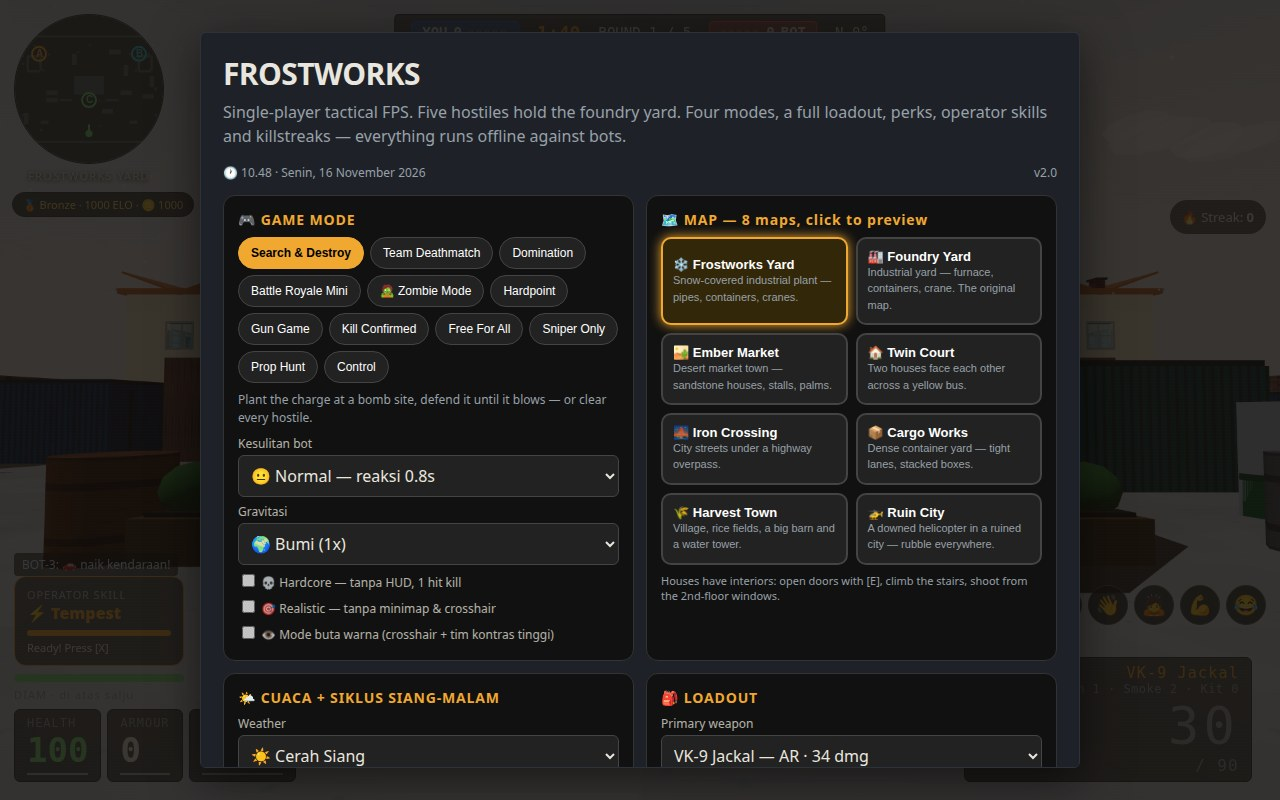
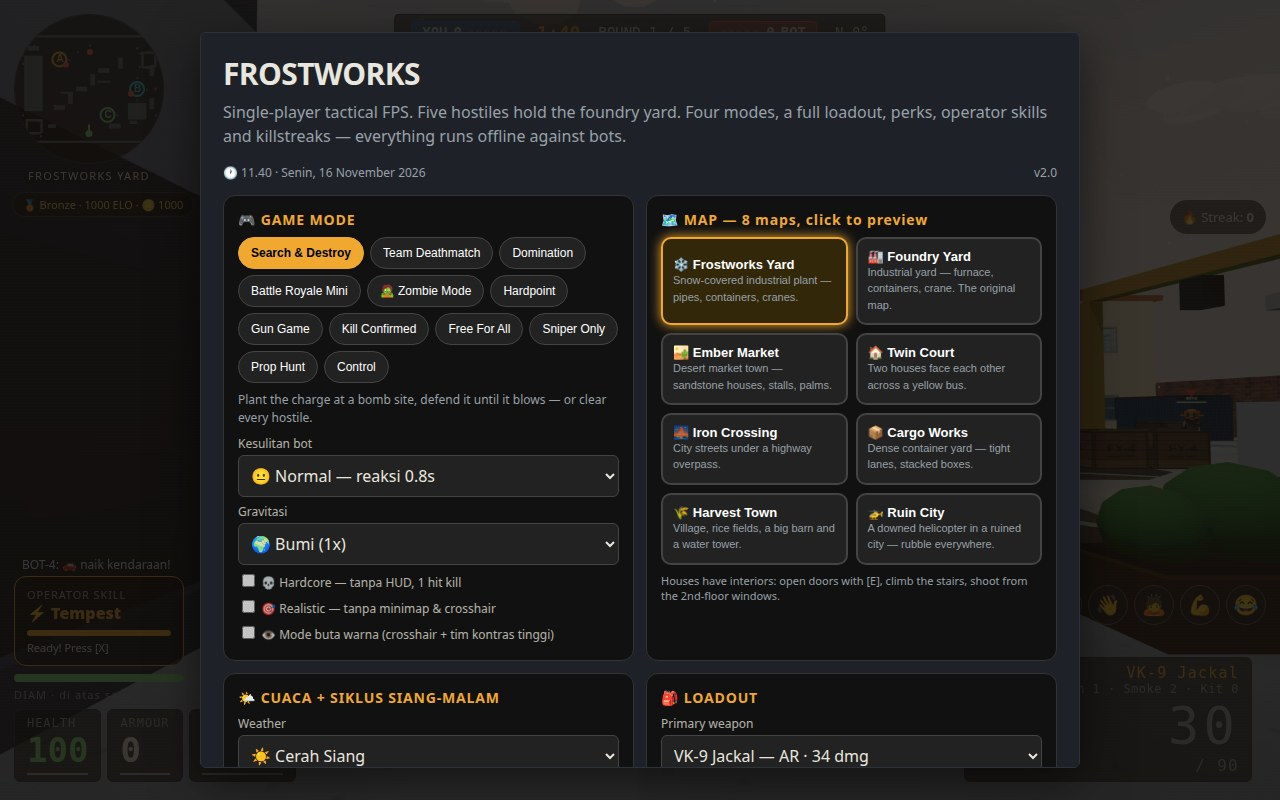
Frost layout redesign: Frostworks Yard rebuilt so it no longer mirrors Foundry — west vertical plant hall, east boiler annex, 90-deg crane, diagonal container spine, sites A (-16,-16) / B (26,0) / C (10,14), asymmetric waypoint ring; new §51 layout checks, self-test 422/422

diff --git a/game/src/maps.js b/game/src/maps.js
@@ -30,87 +30,109 @@ export const MAP_DEFS = {
     id: 'frost', name: 'Frostworks Yard', emoji: '❄',
     desc: 'Snow-covered industrial plant — pipes, containers, cranes.',
     sites: {
-      A: { name: 'Boiler House', x: -27, z: -19, color: 0xf0a830 },
-      B: { name: 'Crane Dock', x: 27, z: -19, color: 0x37c8d8 },
-      C: { name: 'Frost Gate', x: 0, z: 6, color: 0x7ddc7d },
+      A: { name: 'Boiler House', x: -16, z: -16, color: 0xf0a830 },
+      B: { name: 'Crane Dock', x: 26, z: 0, color: 0x37c8d8 },
+      C: { name: 'Frost Gate', x: 10, z: 14, color: 0x7ddc7d },
     },
     ground: 0xe8eef2, groundTex: 'snow', fog: 0x9ab0c0,
+    // Diagonal ring: south spawn -> C -> west lane -> A -> north lane ->
+    // B under the crane -> annex -> C. No waypoint sits inside a solid.
     waypoints: [
-      { x: -30, z: -8 }, { x: -30, z: 8 }, { x: -12, z: 14 }, { x: 0, z: 6 },
-      { x: 12, z: 14 }, { x: 30, z: 8 }, { x: 30, z: -8 }, { x: 14, z: -8 },
-      { x: -14, z: -8 }, { x: 0, z: -14 }, { x: -27, z: -19 }, { x: 27, z: -19 },
-      { x: -20, z: 20 }, { x: 20, z: 20 }, { x: 0, z: 20 },
+      { x: 0, z: 20 }, { x: -2, z: 12 }, { x: -21, z: 12 }, { x: -23, z: 0 },
+      { x: -20, z: -8 }, { x: -20, z: -14 }, { x: -10, z: -12 }, { x: 2, z: -14 },
+      { x: 13, z: -11.5 }, { x: 21, z: -7 }, { x: 24, z: -6 }, { x: 26, z: 0 },
+      { x: 18, z: 8 }, { x: 18, z: 12 }, { x: 10, z: 14 }, { x: 2, z: 18 },
     ],
-    spawns: DEFAULT_SPAWNS,
+    spawns: {
+      player: { x: 0, z: 24, yaw: 0 },
+      bots: [
+        { x: -16, z: -24 }, { x: -6, z: -25 }, { x: 4, z: -25 }, { x: 14, z: -24 }, { x: 0, z: -20 },
+      ],
+    },
     build(api) {
-      // Central plant building: steel hall + snow roof + chimneys + furnace
-      // glow + overhead pipes (same massing as the foundry hall, cold palette).
-      api.addBox(0, -2, 16, 7, 10, 0x4a5258);
-      api.addBox(0, -2, 17, 0.6, 11, 0xe8eef2, { y: 7.2 });
-      api.addCylinder(-5, -4, 0.9, 9, 0x2e3236, { y: 4.5 });
-      api.addCylinder(5, -4, 0.9, 9, 0x2e3236, { y: 4.5 });
-      api.addBox(0, 3.05, 4, 2.2, 0.1, 0xff7a1a, { y: 0.3, solid: false, extra: { emissive: 0xff7a1a, emissiveIntensity: 1 } });
-      for (let i = 0; i < 3; i++) api.addBox(8.4, -2, 0.44, 0.44, 7, 0x6a7a8a, { y: 1 + i * 1.1, solid: false });
-      // Crane at Site B (Crane Dock)
-      api.addBox(22, -19, 0.8, 8, 0.8, 0xf0a830);
-      api.addBox(32, -19, 0.8, 8, 0.8, 0xf0a830);
-      api.addBox(27, -19, 12, 0.8, 0.8, 0xf0a830, { y: 8, solid: false });
-      api.addBox(27, -19, 1, 1.4, 1, 0x2e3236, { y: 6.5, solid: false });
+      // Frostworks, rebuilt (v28): a diagonal plant, NOT foundry's mirror.
+      // The hall runs north-south down the WEST side, a smaller boiler
+      // annex sits south-east, the crane stands vertical on the east, and
+      // the lanes run diagonal SW-NE. Foundry keeps its symmetric central
+      // hall; frost has no building in the middle at all.
+      // West plant hall: long vertical hall, snow roof, furnace glow on
+      // its east face, two chimneys on the roof at its north end.
+      api.addBox(-30, -3, 10, 7, 30, 0x4a5258);
+      api.addBox(-30, -3, 11, 0.6, 31, 0xe8eef2, { y: 7.2 });
+      api.addBox(-24.9, -2, 0.1, 2.2, 4, 0xff7a1a, { y: 0.3, solid: false, extra: { emissive: 0xff7a1a, emissiveIntensity: 1 } });
+      api.addCylinder(-32, -13, 0.9, 9, 0x2e3236, { y: 4.5 });
+      api.addCylinder(-27, -15, 0.9, 11, 0x2e3236, { y: 4.5 });
+      // Freestanding stack at the SW corner + overhead pipes: a north run
+      // across the yard and a vertical run down the hall's east face.
+      api.addCylinder(-36, 24, 1.1, 12, 0x2e3236);
+      for (let i = 0; i < 3; i++) api.addBox(-23.5, -2, 0.44, 0.44, 26, 0x6a7a8a, { y: 1 + i * 1.1, solid: false });
+      api.addBox(0, -20, 30, 0.44, 0.44, 0x6a7a8a, { y: 5, solid: false });
+      // East boiler annex (SE building) with furnace glow on its west face.
+      api.addBox(26, 12, 10, 5, 9, 0x5a4a3a);
+      api.addBox(26, 12, 11, 0.5, 10, 0xe8eef2, { y: 5 });
+      api.addBox(20.9, 12, 0.1, 1.8, 3, 0xff7a1a, { y: 0.3, solid: false, extra: { emissive: 0xff7a1a, emissiveIntensity: 1 } });
+      // Crane at Site B, turned 90 deg vs foundry: legs north-south, beam
+      // along z, hook over the site.
+      api.addBox(26, -6, 0.8, 8, 0.8, 0xf0a830);
+      api.addBox(26, 6, 0.8, 8, 0.8, 0xf0a830);
+      api.addBox(26, 0, 0.8, 0.8, 12, 0xf0a830, { y: 8, solid: false });
+      api.addBox(26, 0, 1, 1.4, 1, 0x2e3236, { y: 6.5, solid: false });
       // Two enterable crew houses (doors + stairs + interiors, like Ember).
-      api.addHouse({ x: -30, z: -14, rot: 90, floors: 2, color: 0x7a8a9a, roof: 0x2e3a44 });
-      api.addHouse({ x: 30, z: -14, rot: 270, floors: 2, color: 0x7a8a9a, roof: 0x2e3a44 });
-      // Containers (corrugated industrial) — clear of the houses and of the
-      // vehicle spots (car -30,20 / heli 30,-20 / moto 0,-24 / tank -14,-22).
-      api.addContainer(-20, 2, 6, 2.5, 0x8a2a2a);
-      api.addContainer(-20, 6, 6, 2.5, 0x2a5a8a);
-      api.addContainer(20, 2, 6, 2.5, 0x2a5a8a);
-      api.addContainer(20, -10, 2.5, 6, 0x5a7a3a);
-      api.addContainer(32, 4, 6, 2.5, 0x8a2a2a);
-      api.addContainer(-8, -16, 2.5, 6, 0x8a2a2a);
-      api.addContainer(10, 12, 6, 2.5, 0x2e6f6a);
-      api.addContainer(-34, 16, 2.5, 6, 0x2a5a8a);
-      api.addContainer(34, -4, 2.5, 6, 0x2a5a8a);
-      api.addContainer(14, -20, 6, 2.5, 0x8a2a2a, { stack: true, stackColor: 0x5a7a3a });
-      // Brick gate walls flanking the mid lane, giant painted site letters
-      // on their south faces, hazard barriers framing the gate.
-      api.addBrickWall(-12.5, 6, 7, 1, 3.5);
-      api.addWallLetter(-12.5, 6.56, 0, 'A', 'BOILER HOUSE', '#f0a830');
-      api.addBrickWall(12.5, 6, 7, 1, 3.5);
-      api.addWallLetter(12.5, 6.56, 0, 'B', 'CRANE DOCK', '#37c8d8');
-      api.addHazardBarrier(-8.5, 6, Math.PI / 2);
-      api.addHazardBarrier(8.5, 6, Math.PI / 2);
+      api.addHouse({ x: 32, z: -16, rot: 270, floors: 2, color: 0x7a8a9a, roof: 0x2e3a44 });
+      api.addHouse({ x: -30, z: 20, rot: 0, floors: 2, color: 0x7a8a9a, roof: 0x2e3a44 });
+      // Containers: a diagonal spine SW-NE + clusters, clear of the houses
+      // and of the vehicle spots (car -12,22 / heli 12,-22 / moto -24,22 /
+      // tank -14,-22).
+      api.addContainer(-16, 10, 6, 2.5, 0x8a2a2a);
+      api.addContainer(-10, 5, 2.5, 6, 0x2a5a8a);
+      api.addContainer(-4, 0, 6, 2.5, 0x5a7a3a);
+      api.addContainer(2, -5, 2.5, 6, 0x8a2a2a);
+      api.addContainer(8, -10, 6, 2.5, 0x2a5a8a);
+      api.addContainer(17, -14, 2.5, 6, 0x8a2a2a);
+      api.addContainer(-30, -22, 6, 2.5, 0x2a5a8a);
+      api.addContainer(34, 8, 2.5, 6, 0x8a2a2a);
+      api.addContainer(14, 20, 6, 2.5, 0x2a5a8a, { stack: true, stackColor: 0x5a7a3a });
+      api.addContainer(34, -10, 2.5, 6, 0x2a5a8a);
+      // Brick gate walls flanking the diagonal lane, giant painted site
+      // letters on their south faces, hazard barriers framing the gate.
+      api.addBrickWall(-12, 2, 7, 1, 3.5);
+      api.addWallLetter(-12, 2.56, 0, 'A', 'BOILER HOUSE', '#f0a830');
+      api.addBrickWall(8, -4, 7, 1, 3.5);
+      api.addWallLetter(8, -3.44, 0, 'B', 'CRANE DOCK', '#37c8d8');
+      api.addHazardBarrier(-8.5, 2, Math.PI / 2);
+      api.addHazardBarrier(4.5, -4, Math.PI / 2);
       // Crates, grid-aligned (no overlaps): pairs 1.8m apart, plus a
       // two-high stack at each site corner. FW-7 = Frostworks stencil.
-      scatterCrates(api, [[-12, 8], [-10.2, 8], [12, 8], [13.8, 8], [0, 14], [-4, -12], [24, 12], [-24, -2], [6, -14], [-16, 20], [16, 20], [0, -22]]);
-      api.addCrate(-27, -10, 1.6, 'FW-7');
-      api.addCrate(-27, -10, 1.6, 'FW-7', 1.16);
-      api.addCrate(27, -10, 1.6, 'FW-7');
-      api.addCrate(27, -10, 1.6, 'FW-7', 1.16);
-      scatterBarrels(api, [[-16, 4], [-15, 5], [16, -6], [26, 2], [-30, 2], [8, 18], [-6, 18], [30, -6]]);
-      api.addSandbag(-23, -14); api.addSandbag(-21, -14);
-      api.addSandbag(23, -14); api.addSandbag(21, -14);
-      api.addSandbag(-2, 10); api.addSandbag(2, 10);
+      scatterCrates(api, [[-12, 14], [-10.2, 14], [14, 8], [15.8, 8], [2, 14], [-24, -20], [20, -16], [30, -6], [-18, 18], [18, -18], [-6, -22]]);
+      api.addCrate(-14, -20, 1.6, 'FW-7');
+      api.addCrate(-14, -20, 1.6, 'FW-7', 1.16);
+      api.addCrate(30, 4, 1.6, 'FW-7');
+      api.addCrate(30, 4, 1.6, 'FW-7', 1.16);
+      scatterBarrels(api, [[-18, -8], [-17, -7], [16, -4], [34, 14], [-32, 14], [10, 20], [-8, 20], [36, -6]]);
+      api.addSandbag(-17, -11); api.addSandbag(-15, -11);
+      api.addSandbag(22, -3); api.addSandbag(18, 2);
+      api.addSandbag(6, 11); api.addSandbag(8, 11);
       api.addTree(-36, 14); api.addTree(36, 14);
-      api.addCar(-24, 18, 0, 0x5a6a7a); api.addCar(24, 18, 0, 0x7a2a2a);
+      api.addCar(-20, 20, 0, 0x5a6a7a); api.addCar(24, 18, 0, 0x7a2a2a);
       // Frostworks details: TV, flag, statue, billboard, bushes, planters.
-      api.addTV(-34, 22, 0);
+      api.addTV(36, 22, 0);
       api.addFlag(0, -24, 0x2a5a8a);
       api.addStatue(36, 0);
       api.addBillboard(-36, -20, Math.PI / 2, 0x2a5a8a);
-      api.addBush(-28, 22); api.addBush(28, -22); api.addBush(-34, 8);
-      api.addPlanter(-4.5, 18); api.addPlanter(4.5, 18);
-      api.addPowerPole(-36, -14); api.addWoodPile(30, 14);
-      api.addTrashCan(-26, -18); api.addTrashCan(26, 18);
+      api.addBush(-14, 22); api.addBush(28, -22); api.addBush(-12, -24);
+      api.addPlanter(-4.5, 20); api.addPlanter(4.5, 20);
+      api.addPowerPole(-36, -14); api.addWoodPile(34, 18);
+      api.addTrashCan(-22, -20); api.addTrashCan(26, 20);
       // Ambient: dog, mechanic, fridge/stove/safe/wardrobe.
-      api.addAnimal('dog', -28, 22); api.addNPC('mechanic', 24, 16);
+      api.addAnimal('dog', -16, 22); api.addNPC('mechanic', 18, 18);
       api.addFridge(10, 16); api.addStove(12, 16); api.addSafe(-10, 20); api.addWardrobe(34, 12);
       // GLB props: Kenney industrial set + skyscraper backdrop.
-      api.addGLB('models/kenney/buildings/industrial/factory.glb', -30, 22, { scale: 6 });
+      api.addGLB('models/kenney/buildings/industrial/factory.glb', -36, -22, { scale: 6 });
       api.addGLB('models/kenney/buildings/industrial/chimney.glb', -20, 23, { scale: 5 });
       api.addGLB('models/kenney/buildings/industrial/tank.glb', 30, 22, { scale: 5 });
       api.addGLB('models/kenney/buildings/industrial/watertower.glb', 34, -22, { scale: 5 });
       api.addGLB('models/kenney/props/factory/conveyor.glb', 14, -16, { scale: 4 });
-      api.addGLB('models/kenney/buildings/skyscraper.glb', 14, 22, { scale: 8 });
+      api.addGLB('models/kenney/buildings/skyscraper.glb', -8, 24, { scale: 8 });
       lights(api);
     },
   },

diff --git a/game/src/selftest.js b/game/src/selftest.js
@@ -1061,6 +1061,62 @@ export function runSelfTest(ctx) {
     // Round-over wide shot: end the round and check the viewpoint parks high.
     game.endRound(true, '§50 TEST');
     check('§50 round-over parks the camera high', S.player.y >= 20 && S.player.pitch < -0.5);
+    // ---- §51: frost layout redesign — Frostworks must NOT be foundry
+    // with snow (2026-11-16). Sites, waypoints and the big masses differ.
+    world.buildMap('frost'); vehicles.place('frost'); game.startRound();
+    S.mode = 'tdm'; S.difficulty = 'normal';
+    S.player.hp = 9999; S.spawnProtT = 0; S.hideT = 999;
+    const fr51 = MAP_DEFS.frost, fo51 = MAP_DEFS.foundry;
+    const siteDist51 = k => Math.hypot(fr51.sites[k].x - fo51.sites[k].x, fr51.sites[k].z - fo51.sites[k].z);
+    check('§51 frost sites moved (A/B/C all >10m from foundry)', ['A', 'B', 'C'].every(k => siteDist51(k) > 10));
+    check('§51 frost site names kept (Boiler House / Crane Dock / Frost Gate)',
+      fr51.sites.A.name === 'Boiler House' && fr51.sites.B.name === 'Crane Dock' && fr51.sites.C.name === 'Frost Gate');
+    check('§51 frost waypoints differ from foundry (not a copy)',
+      JSON.stringify(fr51.waypoints) !== JSON.stringify(fo51.waypoints) && fr51.waypoints.length >= 12);
+    // The old foundry hall spot (0,-2) is open ground now; the new west
+    // hall, the annex and the crane legs are solid where they stand.
+    check('§51 no central hall: old foundry hall spot (0,-2) is open', !world.isColliding(0, -2, 0.35, 0));
+    check('§51 new west hall is solid', world.isColliding(-30, -3, 0.35, 0));
+    check('§51 new annex is solid', world.isColliding(26, 12, 0.35, 0));
+    check('§51 crane legs stand at (26,-6) and (26,6)', world.isColliding(26, -6, 0.35, 0) && world.isColliding(26, 6, 0.35, 0));
+    check('§51 site B sits open under the crane beam', !world.isColliding(26, 0, 0.35, 0));
+    // Every site + spawn stands on open ground.
+    const open51 = (x, z) => !world.isColliding(x, z, 0.35, 0);
+    check('§51 all frost sites are open ground', ['A', 'B', 'C'].every(k => open51(world.sites[k].x, world.sites[k].z)));
+    check('§51 frost spawns are open ground',
+      open51(fr51.spawns.player.x, fr51.spawns.player.z) && fr51.spawns.bots.every(s => open51(s.x, s.z)));
+    // Every waypoint is open, and every ring segment between consecutive
+    // waypoints is walkable (sampled every 0.5m, bot radius 0.4).
+    const wps51 = world.waypoints;
+    check(`§51 all ${wps51.length} frost waypoints are open`, wps51.every(w => open51(w.x, w.z)));
+    const segClear51 = (a, b) => {
+      const n = Math.ceil(Math.hypot(b.x - a.x, b.z - a.z) / 0.5);
+      for (let i = 0; i <= n; i++) {
+        if (world.isColliding(a.x + (b.x - a.x) * i / n, a.z + (b.z - a.z) * i / n, 0.4, 0)) return false;
+      }
+      return true;
+    };
+    let badSeg51 = -1;
+    for (let i = 0; i < wps51.length; i++) {
+      if (!segClear51(wps51[i], wps51[(i + 1) % wps51.length])) { badSeg51 = i; break; }
+    }
+    check(`§51 waypoint ring is walkable (bad segment: ${badSeg51})`, badSeg51 === -1);
+    // Houses still enterable, vehicles placed on clear ground.
+    check('§51 frost still has enterable-house doors', world.doors.length > 0);
+    check('§51 frost vehicles sit on clear ground',
+      vehicles.list.every(v => !world.isColliding(v.x, v.z, 1.2, 0)));
+    // A bot actually walks the new ring: park it at waypoint 0, point it
+    // at the far side, and watch it close the distance.
+    const wb = S.bots[0];
+    wb.hp = 100; wb.state = 'patrol'; wb.hasSeen = false; wb.prone = false;
+    wb.skillCd = 999; wb.grenadeCd = 999; wb.grenadesUsed = 1; wb.flankCd = 999;
+    wb.x = wps51[0].x; wb.z = wps51[0].z; wb.wpIdx = 6; wb.stuckT = 0;
+    parkOthers(wb); bots.syncMeshes();
+    const d0 = Math.hypot(wb.x - wps51[6].x, wb.z - wps51[6].z);
+    settle(60 * 12); // west leg detour is longer; 12s still clears it
+    const d1 = Math.hypot(wb.x - wps51[6].x, wb.z - wps51[6].z);
+    check(`§51 bot walks the frost ring (dist ${d0.toFixed(1)} -> ${d1.toFixed(1)}m)`, d1 < d0 - 5);
+    S.hideT = 0;
     world.buildMap('foundry');
     game.startRound();
     world.buildMap('foundry');

diff --git a/game/src/vehicles.js b/game/src/vehicles.js
@@ -36,7 +36,7 @@ const SPOTS = {
   cargo: { car: [0, -18], heli: [-30, -20], moto: [30, 20], tank: [-20, 22] },
   harvest: { car: [-24, -14], heli: [24, 14], moto: [0, -22], tank: [20, -20] },
   ruin: { car: [26, 18], heli: [-26, -18], moto: [0, 20], tank: [-24, 20] },
-  frost: { car: [-30, 20], heli: [30, -20], moto: [0, -24], tank: [-14, -22] },
+  frost: { car: [-12, 22], heli: [12, -22], moto: [-24, 22], tank: [-14, -22] },
 };
 // Fallback ring spots for the extra vehicle types (boat, jetski, bike,
 // drone, truck, bus, police, ambulance, firetruck).
